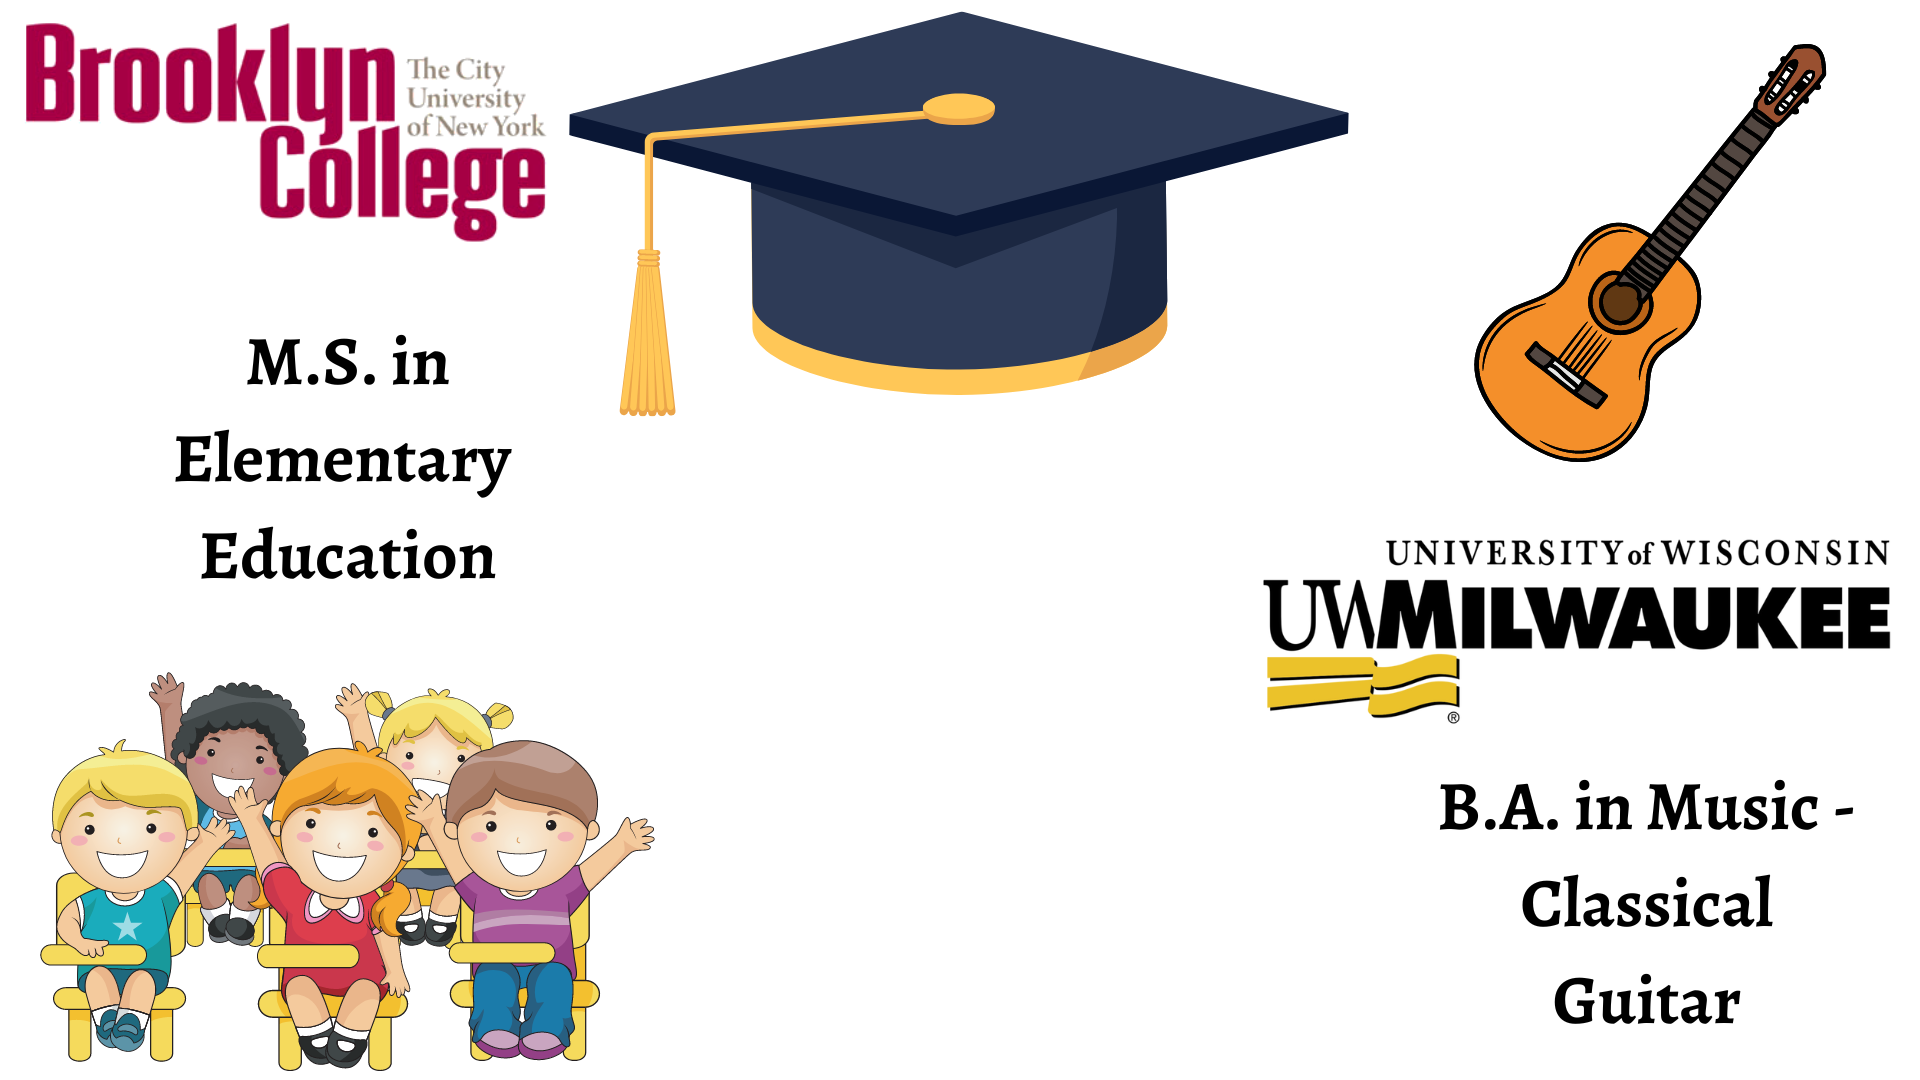
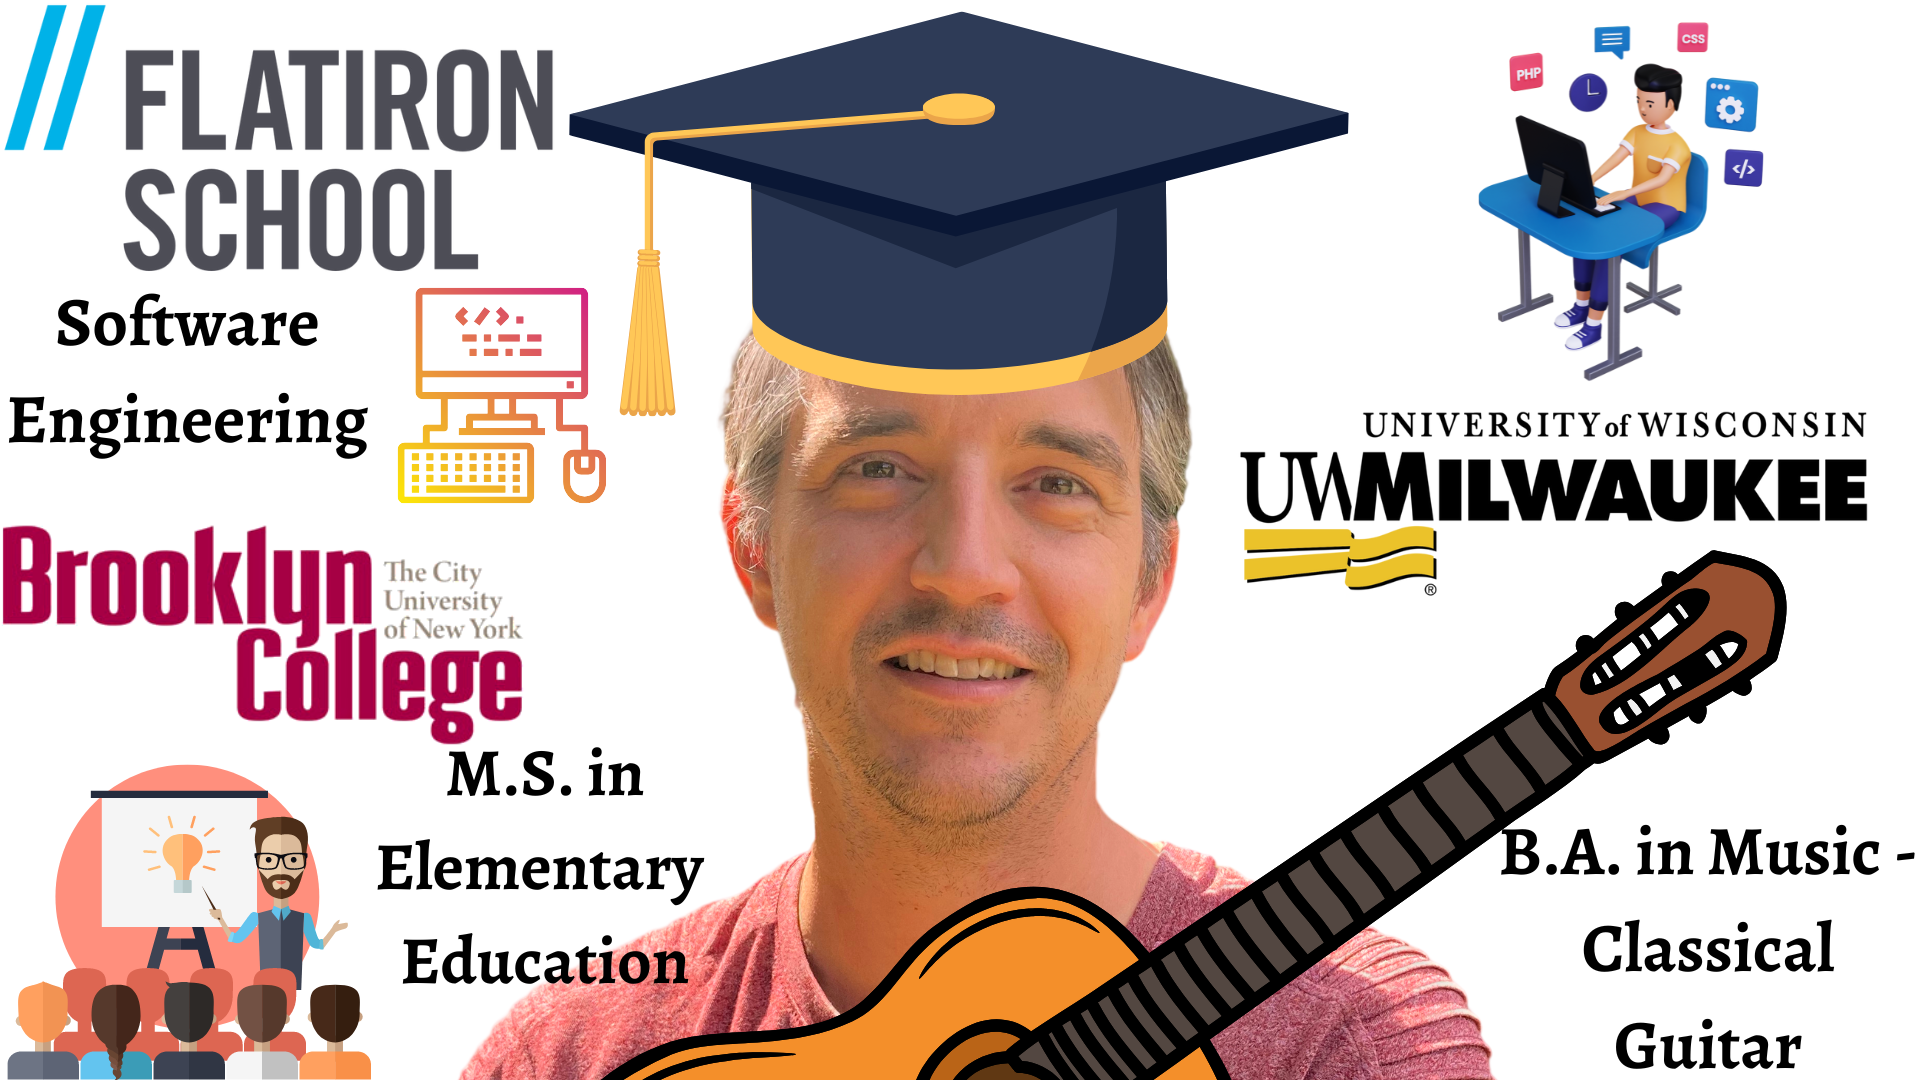
changed fonts

diff --git a/src/About.js b/src/About.js
@@ -18,7 +18,7 @@ function About({aboutRef}) {
 
 	const aboutTraits = [
 		{description: 'music aficionado', image: PortfolioMusic, paragraph: 'I am learning to be as minimalist as I can, but there is one area where I am not interested. That\'s my collection of vinyl records. In my free time, I am searching RateYourMusic for the best albums of each year and giving them a spin. My final project at the Flatiron School was building a version of Spotify for album collectors. Check it out in my projects below.'},
-		{description: 'diverse degree holder', image: PortfolioEducation, paragraph: 'My college career began with 6 hours a day of classical guitar practice. An acquaintance asked me at my senior recital if I wanted to teach with her, and I spent the next 10 years teaching in a preschool classroom, and mannying in NYC. I returned to get my master\'s in education, and was a classroom educator (with a special fondness for math) until teaching during the pandemic showed me how much I loved to create educational tech tools for my students to learn.'}, 
+		{description: 'well-rounded graduate', image: PortfolioEducation, paragraph: 'My college career began with 6 hours a day of classical guitar practice. An acquaintance asked me at my senior recital if I wanted to teach with her, and I spent the next 10 years teaching in a preschool classroom, and mannying in NYC. I returned to get my master\'s in education, and was a classroom educator (with a special fondness for math) until teaching during the pandemic showed me how much I loved to create educational tech tools for my students to learn.'}, 
 		{description: 'volleyball player', image: PortfolioVolleyball, paragraph: 'I often get asked where I met my wife. The answer is, of course, at the Dodge YMCA playing volleyball. And we\'re actually one of six couples that got married through playing together at the YMCA. We still love playing, but most of the time is now at the park, where our 5 year-old volleyball obsessed son can play with us as well.'},
 		{description: 'world traveler', image: PortfolioTravel, paragraph: 'My wife and I have a collection of ceramic and wooden suns that we have gathered from our travels around the world that hang above the large arches in our apartment. We currently have 42 suns hanging in our home. My most treasured sun is handpainted by the amazing girl I used to babysit, who came all the way to Italy from New York to be our flower girl, and wanted to paint us one when she saw it at a shop.'},
 		{description: 'heavy-metal guitarist', image: PortfolioMetal, paragraph: 'A purchase of an Ozzfest live VHS tape was my gateway into the world of heavy metal, and the beginning of my love of music. My best friends in high school and I had a band that played thrash and melodic death metal. I went through a phase where I thought I shouldn\'t listen to metal because I was grown-up. I now realize the error in my thinking, and am hoping to plug in the amp and turn it to 11 once we move out of our 1-bedroom apartment in Brooklyn. Someday.'},

diff --git a/src/index.css b/src/index.css
@@ -1,13 +1,19 @@
-@import url('https://fonts.googleapis.com/css2?family=Arima:wght@500&family=Roboto:wght@500&display=swap');
+/* @import url('https://fonts.googleapis.com/css2?family=Arima:wght@500&family=Roboto:wght@500&display=swap'); */
+@import url('https://fonts.googleapis.com/css2?family=Mukta:wght@500&display=swap');
+@import url('https://fonts.googleapis.com/css2?family=Cabin:wght@500&display=swap');
 
 body {
 	padding: 0;
 	margin: 0;
-	font-family: 'Arima', cursive;
+	/* font-family: 'Arima', cursive; */
+	font-family: 'Mukta', sans-serif;
+	font-family: 'Cabin', sans-serif;
 }
 
 button {
-	font-family: 'Arima', cursive;
+	/* font-family: 'Arima', cursive; */
+	/* font-family: 'Mukta', sans-serif; */
+	font-family: 'Cabin', sans-serif;
 	background-color: #F2EE1B;
 	cursor: pointer;
 	border-radius: 3px;
@@ -34,20 +40,30 @@ button {
 	width: 60%;
 }
 
+
 .blog-flip {
 	height: 95px;
-	background-color: #29274C;
-	color: white;
-	font-weight: bold;
+	transition: 500ms;
 	overflow: scroll;
 	border-radius: 5px;
 	box-sizing: border-box;
+	/* font-weight: bold; */
+
+}
+
+.blog-flip:hover {
+	
+	background-color: #29274C;
+	color: white;
 	border: 1px solid white;
 }
+
 
 .blog-flip p {
 	margin-top: 5px;
 }
+
+
 
 .blog-post {
 	background-color: white;
@@ -195,7 +211,7 @@ transform: scale(1.03,1.03);
 	cursor: pointer;
 	/* writing-mode: vertical-rl; */
 	transform: rotate(315deg);
-	transition: 500ms;
+	transition: 250ms;
 	text-align: center;
 	border-radius: 3px;
 	/* text-orientation: upright; */
